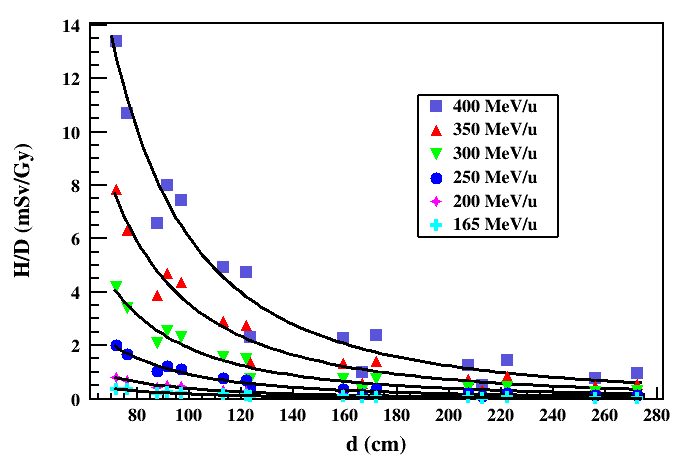
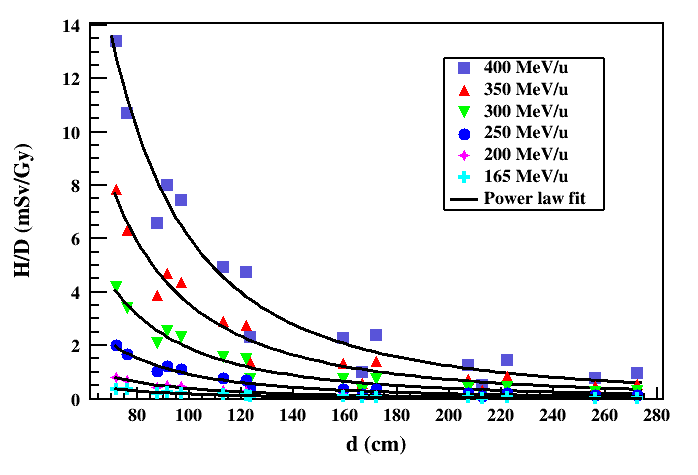
newchange of dlinear dlog

Changed region(s): [[0.6017, 0.1179, 0.8725, 0.5011]]

diff --git a/ene_iso/result/d_HperD1.C b/ene_iso/result/d_HperD1.C
@@ -100,6 +100,7 @@ void d_HperD1()
     leg->AddEntry(gr4,"250 MeV/u","p");
     leg->AddEntry(gr5,"200 MeV/u","p");
     leg->AddEntry(gr6,"165 MeV/u","p");
+    leg->AddEntry(f1,"Power law fit","l");
     leg->SetTextSize(0.04);
     leg->Draw();
     gStyle->SetOptFit(0000);

diff --git a/ene_iso/result/d_HperD.C b/ene_iso/result/d_HperD.C
@@ -97,6 +97,7 @@ void d_HperD()
     leg->AddEntry(gr4,"250 MeV/u","p");
     leg->AddEntry(gr5,"200 MeV/u","p");
     leg->AddEntry(gr6,"165 MeV/u","p");
+    leg->AddEntry(f1,"Power law fit","l");
     leg->SetTextSize(0.04);
     leg->Draw();
     gStyle->SetOptFit(0000);
